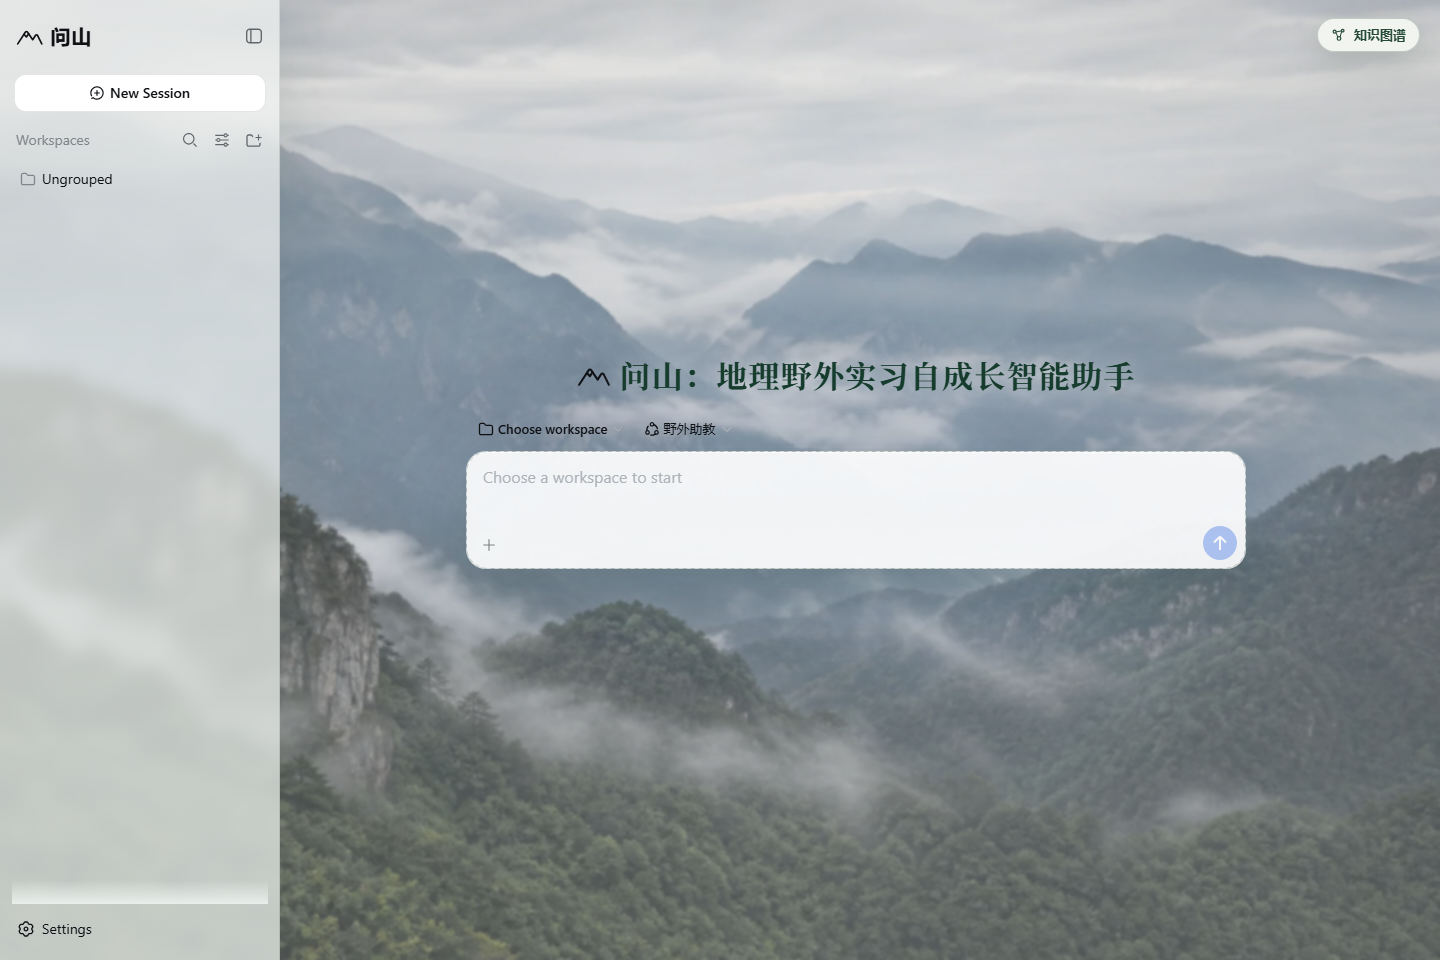
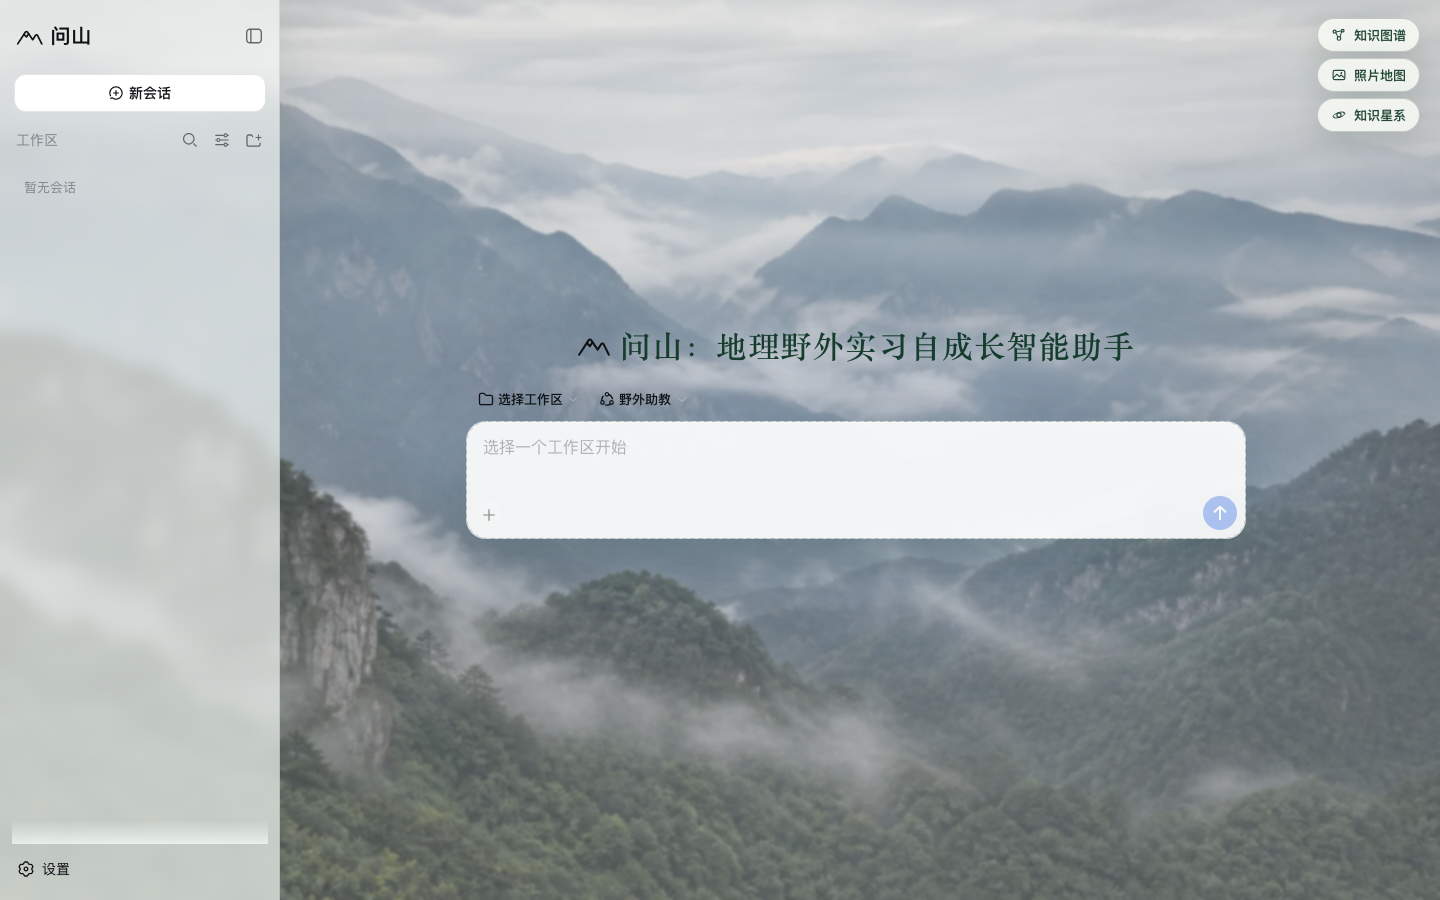
feat(ui): 主界面默认中文
内置运行时自带完整中文字典，但界面语言默认跟随浏览器，英文浏览器会得到英文界面。
产品层在首次启动时把 locale.preference 写成 zh：

- scripts/lib/launch.mjs：新增 preferredLocale / ensureLocalePreference，
  首启在 .wenshan-home/settings.yaml 补一条语言偏好；已有偏好不覆盖，写失败只告警
- 支持 WENSHAN_LOCALE=en 改变部署默认语言（systemd / compose 已留注释位）
- tests/cli.test.mjs 覆盖默认值、幂等、保留其它设置、尊重用户已选语言
- docs：README、ux-copy、CHANGELOG 记录；home 截图换成中文界面

验证：全新 WENSHAN_HOME 启动后 settings.yaml 出现 preference: zh，主界面显示
「新会话 / 工作区 / 选择一个工作区开始 / 设置」；改成 en 后界面切回英文。

diff --git a/docs/product/ux-copy.md b/docs/product/ux-copy.md
@@ -73,7 +73,12 @@
 | 收录结果 | 资料关联图谱已生成，当前有… | 图谱现在有 N 个节点、M 条关联。 |
 | 上传错误 | 不支持此文件类型。支持… | 这个文件类型收不了。可收：… |
 
+## 语言
+
+- 界面语言由内置运行时的本地化字典提供，已带完整中文。产品在首次启动时把 `locale.preference` 写成 `zh`，英文浏览器也默认中文；「设置 > 通用 > 语言」随时可切英文，教师的切换不会被覆盖。
+- `WENSHAN_LOCALE=en` 可把某次部署的默认语言改成英文（容器、systemd 都适用）。
+- 主聊天界面因此显示：`新会话`、`工作区`、`选择一个工作区开始`、`给智能体发消息`、`设置` 等中文文案。
+
 ## 待确认
 
-- 主聊天界面的输入框占位符与欢迎语由内置运行时提供（英文），是否要换成中文、换成什么，需要产品决定。
 - 教师是否习惯「资料夹」这个词（还是「资料文件夹」「本次资料」），可以在下次培训时收集一次反馈。

diff --git a/CHANGELOG.md b/CHANGELOG.md
@@ -43,6 +43,8 @@
 - 界面文案按 UX Writer 流程统一：删掉页面上的品牌副标题与功能说明、技术命令与实现术语，
   报错改成「哪不对 + 下一步」，缺口徽章、星系计数、收录弹窗与结果文案统一叫法；
   新增 [docs/product/ux-copy.md](docs/product/ux-copy.md) 作为后续改文案的依据。
+- 界面语言默认中文：首次启动写入 `locale.preference: zh`（英文浏览器也显示中文），
+  「设置 > 通用 > 语言」可切换，`WENSHAN_LOCALE=en` 可改部署默认值。
 - 仓库更名为 `wenshan`（原 `dsh-wenshan`）；内置运行时目录从 `vendor/runtime/` 移到 `runtime/`。
 - 产品层与上游运行时解耦：业务包不再声明上游包级依赖，启动器只为本进程设置运行时状态变量、
   不继承宿主值；产品代码与文档不再出现上游名称。三个业务包版本同步到 1.0.0。

diff --git a/README.md b/README.md
@@ -110,6 +110,7 @@ Windows、macOS、Linux 走同一条路径：只有一个入口 `wenshan`（`bin
 | Python 依赖 | 装在项目内 `.venv`，不碰系统环境（macOS 的 PEP 668 会挡住全局 pip） |
 | 依赖分组 | `requirements-core`（必需）+ `audio` / `gis` / `tools`（缺轮子只降级对应格式） |
 | 运行状态 | 写在项目内 `.wenshan-home`，不读写系统里其它服务的状态目录（可用 `WENSHAN_HOME` 改） |
+| 界面语言 | 首次启动写入中文偏好；「设置 > 通用 > 语言」可切英文，`WENSHAN_LOCALE=en` 改默认值 |
 | 端口 | 默认 `3080`，被其它服务占用时自动顺延并打印实际地址 |
 
 ## 快速开始
